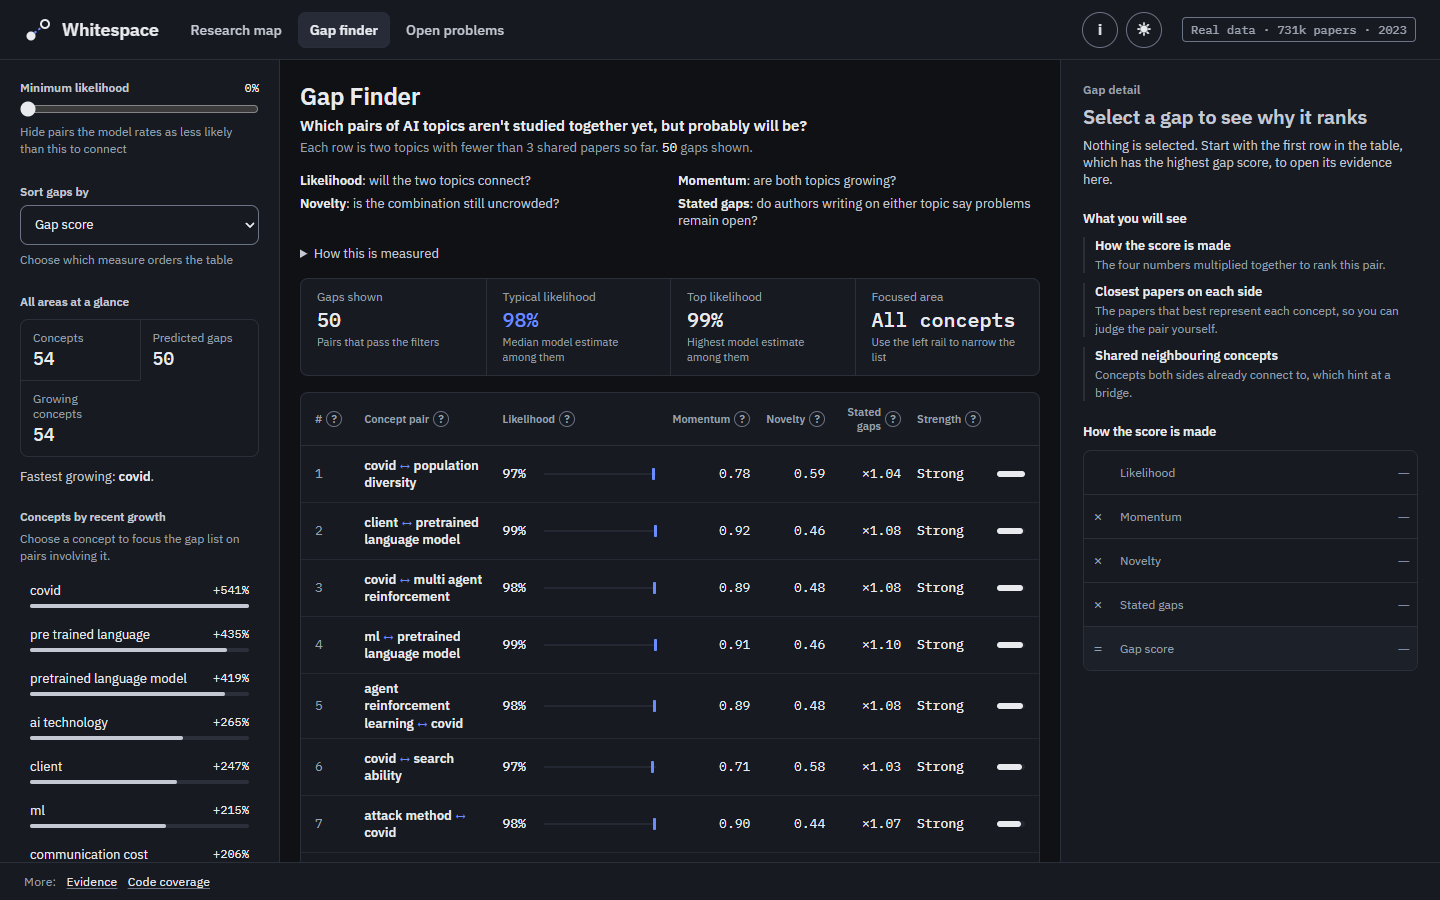
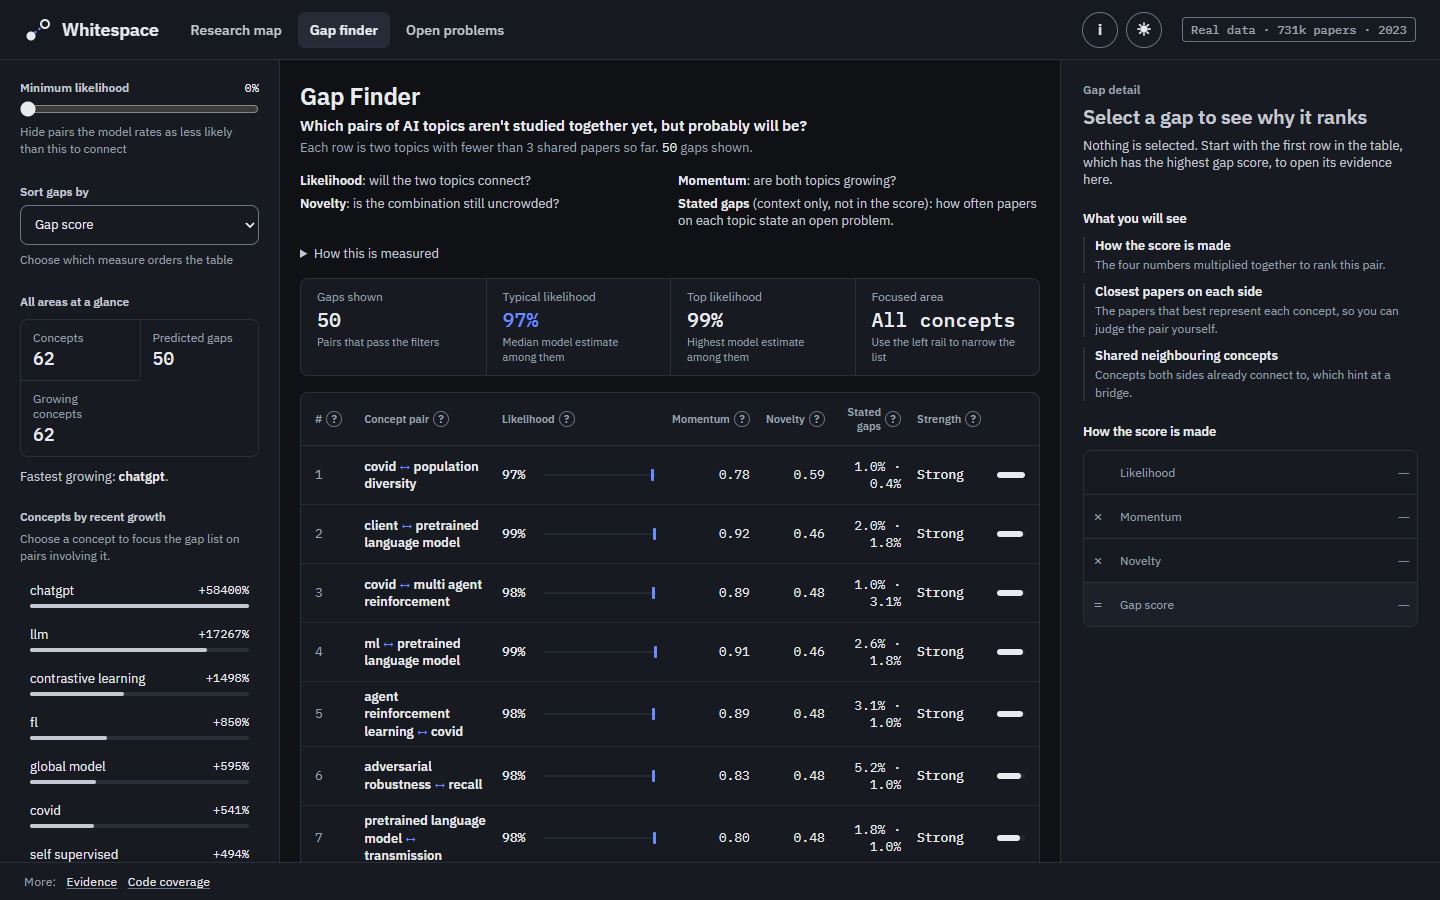
docs(#252): describe export7 open-problem excerpts and gap cap

diff --git a/README.md b/README.md
@@ -28,8 +28,8 @@ Research moves faster than people can read it. Search finds work that already ex
 ## What it does
 
 - **Research map:** explore the latest snapshot as a 3D graph. Branch hubs are clusters found in the map layout and named for the words their concepts share; they are derived in the app, not exported by the pipeline. Each branch links to its largest concepts, coloured from red for the biggest to blue for the smallest. An option draws the top-ranked gaps as bridges between the two concepts they join. Selecting a branch, concept or gap opens its details; a concept shows its papers per year, its growth and the gaps it appears in. The summary counts distinct papers in the corpus. The map has no time slider.
-- **Gap finder:** review unlinked concept pairs, their scores and supporting papers. Momentum counts only when both concepts are growing, and summary stats count only concepts with positive growth. A list of 534 generic filler phrases (for example "vice versa" or non-English function words) is hidden from this list only; the vocabulary, model and backtest are unchanged. A stated-gaps column shows how often papers on each side state an open problem; it is display-only and does not change the gap score or rank. Likelihoods come from the production model, which has no held-out test of its own, so they are rankings, not chances. Paper-title search is unavailable; the search box filters concept names only.
-- **Open problems:** read 923 short future-work, open-problem and limitation excerpts quoted from abstracts indexed by OpenAlex. Each is attributed and linked to its source paper, and copyright remains with the publishers and authors. They are for display only. A pattern filter selected them; an AI review of a 100-excerpt sample labelled 36 correct, 58 wrong and 6 unsure ([issue #270](https://github.com/PersiaF04/HACKTHEBURGH-26/issues/270)). That review is not human-validated, so extraction quality is unmeasured. Filter by concept or statement type, and compare the stated-problem rate over time with the wider AI scope.
+- **Gap finder:** review unlinked concept pairs, their scores and supporting papers. Momentum counts only when both concepts are growing, and summary stats count only concepts with positive growth. A list of 534 generic filler phrases (for example "vice versa" or non-English function words) is hidden from this list only, and no concept appears in more than three listed gaps; the vocabulary, model and backtest are unchanged. A stated-gaps column shows how often papers on each side state an open problem; it is context only and does not change the gap score or rank. Likelihoods come from the production model, which has no held-out test of its own, so they are rankings, not chances. Paper-title search is unavailable; the search box filters concept names only.
+- **Open problems:** read 911 short open-problem excerpts quoted from abstracts indexed by OpenAlex. Each is attributed and linked to its source paper, and copyright remains with the publishers and authors. They are for display only. A pattern filter selected them. On open-problem statements, AI-labelled precision is 24/34 (71%), not human-validated, and the labels come from the same AI system that built the extractor, so they are not independent ([issue #270](https://github.com/PersiaF04/HACKTHEBURGH-26/issues/270)). Future-work and limitation statements measured worse and are not shown. Filter by concept, and compare the stated-problem rate over time with the wider AI scope.
 - **Evidence:** at [`/evidence`](https://whitespace-hacktheburgh-26.vercel.app/evidence), a headline card states the pre-registered verdict (aggregate only) with its caveats and a link to issue #122. A technical-detail section holds ranking tables comparing each method's P@100, AP and ROC AUC against the base rate, calibration, and hits and misses. The paper-to-code hand-check is shown as not yet measured.
 - **Code coverage:** explore the concept-by-year archive coverage and papers without a linked record at [`/coverage`](https://whitespace-hacktheburgh-26.vercel.app/coverage). Coverage uses publication years, so its range can differ from the map's snapshot years.
 
